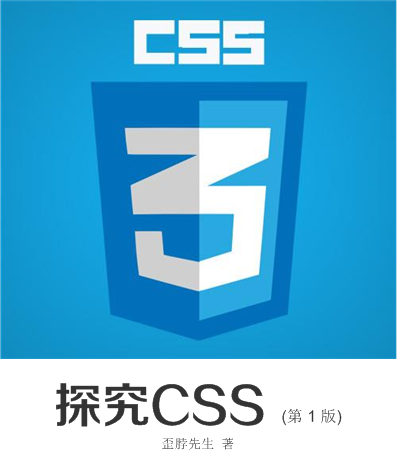
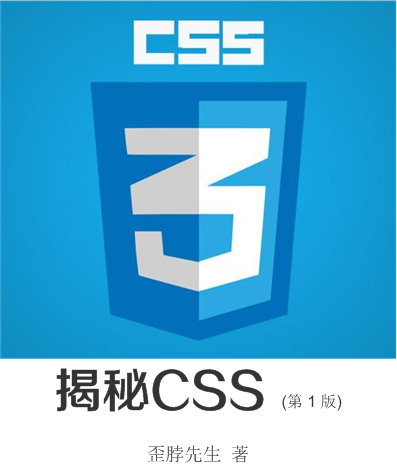
update

diff --git a/README.md b/README.md
@@ -1,5 +1,5 @@
 # 教程简介
-《探究CSS》是一本开源的CSS教程，系统介绍整个CSS体系，全面涵盖CSS1、CSS2.1、CSS3， 并将整个CSS体系作为一个有机整体进行介绍，内容编排上，由浅入深，从基础讲起，逐步深入。   
+《揭秘CSS》是一本开源的CSS教程，系统介绍整个CSS体系，全面涵盖CSS1、CSS2.1、CSS3， 并将整个CSS体系作为一个有机整体进行介绍，内容编排上，由浅入深，从基础讲起，逐步深入。   
 
 <div align=center><img src="./img/face.png" title="探究CSS" alt="探究CSS"></div>   
 
